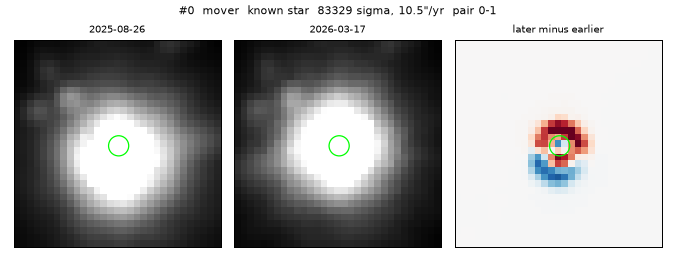
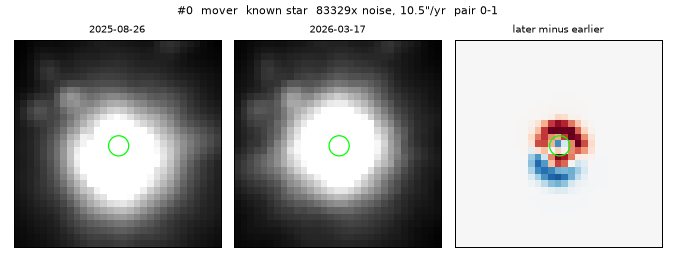
Search: validation write-up on all five fields (docs/search-validation.md)
Per target (clip on / off): recovery, rank, type, implied motion against the
catalogue, every cut count, candidates, unexplained and the rest of the field;
the interleaved-halves false-positive control (17 null pairs: 1.8 false
candidates per pair with clip, 0.3 unexplained; 7.1 and 6.0 without); the clip
comparison; every unexplained candidate inspected; thumbnails, including the
targets the search does not report. Plain statement: it finds bright fast
movers (Barnard's Star, Epsilon Indi B), not the faint WISE 0855, and not the
changes of saturated stars (RW Aur, R Draconis). Thumbnails without a score no
longer print 'nanx noise'.

Changed region(s): [[0.2489, 0.0, 0.7467, 0.0613]]

diff --git a/spherex/search.py b/spherex/search.py
@@ -805,8 +805,9 @@ def save_thumbnails(cands, epochs, out_dir, half_px=15):
             ax.set_title(title, fontsize=8)
             ax.set_xticks([]); ax.set_yticks([])
         pm = f", {c['pm_arcsec_yr']:.1f}\"/yr" if np.isfinite(c["pm_arcsec_yr"]) else ""
-        fig.suptitle(f"#{k}  {c['type']}  {c['label'] if 'label' in c.colnames else ''}  "
-                     f"{c['peak_to_noise']:.0f}x noise{pm}  pair {c['pair']}", fontsize=9)
+        score = f"  {c['peak_to_noise']:.0f}x noise" if np.isfinite(c["peak_to_noise"]) else ""
+        fig.suptitle(f"#{k}  {c['type']}  {c['label'] if 'label' in c.colnames else ''}"
+                     f"{score}{pm}  pair {c['pair']}", fontsize=9)
         fig.tight_layout()
         name = f"{k:03d}_{c['type']}_{(c['label'] if 'label' in c.colnames else 'unlabelled').replace(' ', '-')}.png"
         path = os.path.join(out_dir, name)

diff --git a/docs/search-validation.md b/docs/search-validation.md
@@ -1,183 +1,215 @@
-# Blind search: validation on real data
+# Blind search: validation on the five challenge fields
 
-How well `api.find_movers` / `paramost search` (method in [API.md](API.md#blind-search),
-code in `spherex/search.py`) works on SPHEREx data. Measured 2026-11-18 on the `search` branch.
+How well `api.find_movers` / `paramost search` (method in [API.md](API.md#blind-search), code in
+`spherex/search.py`) works on real SPHEREx data. Measured 2026-11-19 on the `search` branch with
+`tools/validate_search.py` (the five fields) and `tools/search_null_control.py` (the
+false-positive control); both rerun everything below from the downloaded images.
 
-**Short answer.** On the one field with local data it recovers the known mover, Barnard's Star,
-as the most significant candidate in every detector and setting, with an implied proper motion of
-9.3-10.6″/yr against the catalogue's 10.39″/yr. With the default sigma-clipped stacks almost
-nothing else survives (0-3 unexplained candidates per field), and every unexplained candidate is,
-on inspection, most likely an artefact. That is one field, one mover and no known asteroid: far
-too little to say the search finds new objects. Read the limits below before using it.
+## What it can and cannot do
 
-## What was run
+- **It finds bright, fast movers.** With clipping, Barnard's Star (10.4″/yr) and Epsilon Indi B
+  (4.7″/yr) are the top-ranked candidates in every pair, classified `mover`, with the implied motion
+  within 24% of the catalogue (Barnard's Star within 4%).
+- **It does not find faint movers.** WISE 0855 (8.1″/yr, but faint in SPHEREx) leaves a dipole at
+  the noise level: one lobe passes as a lone `single`, no motion is measured, and the label names
+  the neighbouring star. Without clipping it is not found at all.
+- **It does not see changes in saturated stars.** RW Aur really brightened by 30% between visits
+  and R Draconis faded by 22%, but both are saturated, and the cut that removes the rings and wings
+  of saturated stars removes their real change too. Neither is reported.
+- **With clipping (the default), false positives are few:** with nothing changing, 1.8 false
+  candidates per visit pair survive, 0.3 of them unexplained. Without clipping, 7.1 per pair (6.0
+  unexplained), mostly single-frame defects. **Keep `clip=True`.**
+- **No unexplained candidate in any field is a real object** on inspection.
 
-- **Data.** Only Barnard's Star has SPHEREx images on this machine (D2: 3 visits; D3, D5, D6: 2
-  visits; D1, D4: 1 visit, so no pair). WISE 0855, Epsilon Indi B, RW Aur and R Draconis are not
-  downloaded, and nothing was downloaded for this check. So the saturated-star ring cut was **not**
-  tested on R Draconis, and only one mover could be recovered.
-- **Blind.** The field is the 10′ grid the app builds around the target, but the search never uses
-  the target position: detection, cuts, classification and catalogue matching work on the whole
-  grid. The position is only used to find the cutout files (which were requested around it).
-- **Settings.** `fov=10`, 5 sigma, every detector with two or more visits, `clip` on and off;
-  for D2 (3 visits) also `pairs="all"` and `method="minus_mean"`. Gaia DR3, CatWISE2020 and SkyBoT
-  on. None of these catalogues is served by CDS, so the CDS outage did not affect this check.
-- **Catalogue values for Barnard's Star** (Gaia DR3 4472832130942575872): proper motion
-  10.39″/yr toward position angle 355.6° (−0.80″/yr in RA, +10.36″/yr in Dec).
+So: a bright fast mover in a SPHEREx field shows up first; anything else in the table is most
+likely an artefact or a star that looks different in the two visits. That is useful for confirming
+and measuring known high-proper-motion stars, and not (yet) for finding new objects.
 
-## Recovery of Barnard's Star
+## The fields
 
-| Field | Pair (dates) | Rank | Significance | Implied pm (″/yr) | PA (°) | Gaia match |
-|---|---|---|---|---|---|---|
-| D2, clip | 0-1 (2025-08-26 → 2026-03-17) | 1 | 83 329 | 10.46 | 348.3 | 0.84″ |
-| D2, clip | 1-2 (2026-03-17 → 2026-08-22) | 2 | 52 232 | 10.45 | 340.4 | 0.35″ |
-| D2, no clip | 0-1 | 1 | 46 608 | 10.38 | 350.5 | 0.81″ |
-| D2, no clip | 1-2 | 2 | 37 659 | 9.99 | 341.1 | 0.33″ |
-| D3, clip / no clip | 0-1 (2025-08-21 → 2026-08-20) | 1 | 138 128 / 122 527 | 9.33 / 9.33 | 350.3 / 349.9 | 0.56″ / 0.59″ |
-| D5, clip / no clip | 0-1 (2025-08-26 → 2026-08-22) | 1 | 230 430 / 191 802 | 10.54 / 10.50 | 348.2 / 348.6 | 0.74″ / 0.75″ |
-| D6, clip / no clip | 0-1 (2025-08-21 → 2026-08-20) | 1 | 106 536 / 89 547 | 10.36 / 10.36 | 351.8 / 351.6 | 0.71″ |
-| D2, clip, all pairs | 0-2 (one year) | 1 | 99 420 | 10.42 | 345.1 | 0.34″ |
-| D2, clip, minus mean | 0-mean / 2-mean | 1 / 2 | 98 717 / 76 497 | 10.58 / 9.99 | 346.2 / 343.5 | 1.55″ / 0.34″ |
-| D2, no clip, minus mean | 2-mean / 0-mean | 1 / 2 | 43 320 / 41 718 | 9.78 / 10.36 | 344.8 / 348.0 | 0.32″ / 1.29″ |
+| Target | Detector | Visits: frames (release) | Catalogue motion | Download (first view) |
+|---|---|---|---|---|
+| Barnard's Star | D2 | 2025-08-26: 18, 2026-03-17: 18, 2026-08-22: 25 (DR1, DR1, QR3) | 10.39″/yr, PA 355.6° | already local |
+| Epsilon Indi B | D5 | 2025-05-13: 31, 2025-10-12: 24, 2026-04-25: 7, 2026-09-30: 24 (DR1 ×3, QR3) | 4.71″/yr, PA 122.6° | 86 images, 4.8 min |
+| WISE 0855 | D6 | 2025-05-05: 3, 2025-11-16: 21, 2026-04-27: 21 (DR1) | 8.15″/yr, PA 274.8° | 45 images, 2.2 min |
+| RW Aur | D1 | 2025-09-03: 19, 2026-03-07: 19, 2026-09-06: 18 (DR1, DR1, QR3) | (variable) | 56 images, 1.9 min |
+| R Draconis | D3 | 2025-06-03: 23, 2026-01-01: 24, 2026-05-15: 44 (DR1, DR1, DR1 + QR3) | (variable) | 91 images, 3.2 min |
 
-In every pair the top candidate is Barnard's Star, classified `mover`, labelled `known star`, and
-its verdict says the catalogue motion agrees. The speed is right to −10%…+2%. The direction is
-systematically 4-15° west of the catalogue's: an extra westward shift of about 0.2 grid pixel per
-half year, larger than the 0.01-0.13 px that static saturated stars in the same field move. Most
-likely the centroid of the saturated, filled-in core is slightly biased; not investigated further.
+Downloads: 278 images in 721 s with the adaptive concurrency, 2.0-3.3 s per image. The README says
+a first view takes "about 1-3 minutes"; that held for two of the four fields, R Draconis took 3.2 min
+and Epsilon Indi B 4.8 min. Every field searched with `fov=10`, threshold 5, consecutive pairs, Gaia
+DR3 + CatWISE2020 + SkyBoT, and never told where its target is.
 
-Barnard's Star is saturated in every frame (a core of 290-390 grid pixels). Its motion comes from
-the flux-centroid shift of the whole star between the two stacks, not from the dipole lobes: at
-1.5-1.9 grid pixels per pair, the shift is less than one SPHEREx pixel, and the two lobes sit about
-one PSF apart whatever the motion.
+## Per target
 
-Two problems were found and fixed during this validation (both have tests):
-- `minus_mean` compared a saturated star against an empty picture, so Barnard's Star's core was cut
-  as "saturated star wings"; it now uses the mean of the other visits (dated at their mean date).
-- At the first visit's date an unrelated G = 20.9 star lies 1.65″ from Barnard's Star, and the
-  nearest-source rule matched the mover to it. Among sources within 3″ the match is now the one with
-  the agreeing motion (movers) or the brightest (everything else).
+`peak_to_noise` is a ranking score (residual peak / scatter of the blank parts of the difference),
+not a significance: see [API.md](API.md#blind-search).
 
-## Candidates per field and what each cut removed
+| Target | clip | Recovered? | Rank | Type | Implied motion (″/yr) | PA (°) | Distance from prediction |
+|---|---|---|---|---|---|---|---|
+| Barnard's Star | on | yes, both pairs | 1, 2 | mover | 10.46, 10.45 | 348, 340 | 0.8″, 0.4″ |
+| Barnard's Star | off | yes, both pairs | 1, 2 | mover | 10.38, 9.99 | 350, 341 | 0.8″, 0.4″ |
+| Epsilon Indi B | on | yes, all three pairs | 1, 2, 3 | mover | 4.70, 5.23, 5.53 | 151, 154, 99 | 0.9″, 0.9″, 2.0″ |
+| Epsilon Indi B | off | yes, all three pairs | 9, 10, 11 | mover | 4.30, 5.38, 5.78 | 152, 156, 102 | 0.9″, 0.9″, 2.0″ |
+| WISE 0855 | on | one lobe, pair 1-2 | 1 (of 1) | single | - | - | 3.1″ |
+| WISE 0855 | off | no | - | - | - | - | - |
+| RW Aur | on / off | no | - | - | - | - | - |
+| R Draconis | on / off | no | - | - | - | - | - |
 
-| Field | Visits (releases) | Residuals | Low coverage | Edge | Saturated star wings | Small change | Kept | Candidates | Known star | Known IR source | Known asteroid | Unexplained | Time (s) |
-|---|---|---|---|---|---|---|---|---|---|---|---|---|---|
-| D2, clip | 3 (DR1, DR1, QR3) | 208 | 0 | 24 | 20 | 151 | 13 | 9 | 6 | 0 | 0 | 3 | 3.2 |
-| D2, no clip | 3 | 155 | 0 | 16 | 20 | 106 | 13 | 9 | 6 | 0 | 0 | 3 | 3.4 |
-| D3, clip | 2 (DR1, QR3) | 113 | 0 | 12 | 10 | 88 | 3 | 2 | 2 | 0 | 0 | 0 | 2.2 |
-| D3, no clip | 2 | 100 | 0 | 16 | 10 | 71 | 3 | 2 | 2 | 0 | 0 | 0 | 2.0 |
-| D5, clip | 2 (DR1, QR3) | 31 | 0 | 3 | 0 | 26 | 2 | 1 | 1 | 0 | 0 | 0 | 1.9 |
-| D5, no clip | 2 | 50 | 0 | 8 | 0 | 26 | 16 | 15 | 6 | 1 | 0 | 8 | 1.9 |
-| D6, clip | 2 (DR1, QR3) | 13 | 0 | 1 | 0 | 10 | 2 | 1 | 1 | 0 | 0 | 0 | 1.7 |
-| D6, no clip | 2 | 55 | 0 | 7 | 1 | 6 | 41 | 39 | 8 | 3 | 0 | 28 | 2.0 |
-| D2, clip, all pairs | 3 | 310 | 0 | 36 | 28 | 230 | 16 | 10 | 7 | 0 | 0 | 3 | 3.3 |
-| D2, clip, minus mean | 3 | 305 | 0 | 36 | 35 | 225 | 9 | 7 | 4 | 0 | 0 | 3 | 3.4 |
-| D2, no clip, all pairs | 3 | 205 | 0 | 19 | 30 | 139 | 17 | 12 | 7 | 0 | 0 | 5 | 3.0 |
-| D2, no clip, minus mean | 3 | 196 | 0 | 17 | 33 | 135 | 11 | 9 | 4 | 0 | 0 | 5 | 3.3 |
+![Barnard's Star](img/search/barnard_D2_mover.png)
+![Epsilon Indi B in its three pairs](img/search/epsindib_D5_movers.png)
 
-"Kept" counts residuals; a mover joins two (or more) of them into one candidate.
+What each cut removed, and what survived:
 
-- **Low coverage removed nothing**: with 10′ fields served from the standard 0.25° cutouts every
-  pixel has 15-25 frames in every visit. It matters for smaller cutouts and the few-frames visits
-  (none here).
-- **Small change does most of the work.** Most residuals are 5-25% of the star under them: a star
-  that only looks different in the two visits (the focal plane is turned differently on each visit,
-  and DR1 and QR3 are calibrated a few percent differently). The lobes of Barnard's Star are 57-93%.
-  The 30% threshold was chosen on this field; it also removes real changes smaller than 30%.
-- **Saturated star wings** removed 10-20 residuals per field around Barnard's Star and the other
-  saturated stars, while keeping Barnard's Star's own core residuals (its centroid moved 1.5-3.5 px;
-  static saturated stars 0.01-0.13 px).
-- Every pair here except D2's 0-1 crosses the DR1 → QR3 boundary and is flagged `release_boundary`.
+| Target | clip | Residuals | Low coverage | Edge | Saturated-star wings | Small change | Rescued lobes | Kept | Candidates | Unexplained | Rest of field (> 2′ from target) | Time (s) |
+|---|---|---|---|---|---|---|---|---|---|---|---|---|
+| Barnard's Star | on | 208 | 0 | 24 | 20 | 149 | 2 | 15 | 9 | 3 | 7 (3 unexplained) | 3.3 |
+| Barnard's Star | off | 155 | 0 | 16 | 20 | 105 | 1 | 14 | 10 | 3 | 8 (3) | 3.4 |
+| Epsilon Indi B | on | 38 | 0 | 10 | 0 | 15 | 2 | 13 | 10 | 7 | 6 (6) | 4.2 |
+| Epsilon Indi B | off | 60 | 0 | 8 | 0 | 8 | 3 | 44 | 40 | 33 | 30 (26) | 4.2 |
+| WISE 0855 | on | 13 | 7 | 1 | 0 | 4 | 0 | 1 | 1 | 0 | 0 | 2.1 |
+| WISE 0855 | off | 67 | 20 | 6 | 0 | 4 | 0 | 37 | 35 | 30 | 29 (25) | 2.2 |
+| RW Aur | on | 264 | 0 | 32 | 24 | 199 | 0 | 9 | 9 | 2 | 7 (1) | 3.0 |
+| RW Aur | off | 188 | 0 | 23 | 24 | 136 | 0 | 5 | 5 | 1 | 5 (1) | 2.8 |
+| R Draconis | on | 19 | 0 | 4 | 8 | 4 | 2 | 3 | 1 | 0 | 1 (0) | 3.9 |
+| R Draconis | off | 24 | 0 | 4 | 9 | 7 | 0 | 4 | 4 | 4 | 4 (4) | 4.0 |
+
+Within 6′ of each field's centre Gaia lists no star faster than 0.2″/yr except the target itself (WISE
+0855 is too faint for Gaia), so no known second mover is hiding among the rest-of-field candidates.
+Times are with the stacks in memory or saved; rebuilding them from the cached images takes 2.7-8.2 s
+per field with a cold frame cache. SkyBoT adds seconds to a minute per visit the first time.
+
+### Barnard's Star
+
+The easy case: bright and fast, 1.5-1.9 grid pixels per pair. It is saturated in every frame; its
+motion comes from the shift of the whole star's flux centroid between the two stacks. The direction is
+systematically 5-16° west of the catalogue's (0.2 px per half year; static saturated
+stars in the field move 0.01-0.13 px). The 7 other candidates: a tight group of blended faint stars
+that looks different in each visit (two `mover`s, 2-4″/yr, at a star Gaia says does not move), a
+residual at the edge of a bright neighbour, and stars whose cores look different in the two visits
+(the same effect the false-positive control shows).
+![](img/search/barnard_D2_clip_unexplained.png)
+
+### Epsilon Indi B: the DR1/QR3 boundary
+
+Found in all three pairs once its uneven lobes are judged together (see "What changed" below); motion
+4.70-5.53″/yr against 4.68 in Gaia. The direction is poor (99-154° against 122.6°): the shift per pair
+is only 0.65-0.84 grid pixels. **The release boundary does not create false variables**: the DR1 → QR3
+pair (2-3) has 2 candidates and no variables (the target and one unexplained), the two DR1 pairs 8;
+a few-percent calibration step is far below the 30% small-change cut. Of its 7 unexplained candidates
+with clip, 6 (268-291″ from the target, near the field edge) are diffuse patches in a smooth brightness
+gradient, not point sources: most likely scattered light from a bright star outside the field that
+changed between visits (not checked further); the seventh, 41″ from the target, is a featureless spot
+next to a bright star's residual.
+![](img/search/epsindib_D5_clip_unexplained.png)
+
+### WISE 0855: faint, with the G = 16.3 neighbour
+
+The target is only 13-21 times the noise in each stack. Its first visit has 3 frames, so pair 0-1 is
+cut as low coverage. In pair 1-2 the dipole is at the noise level (smoothed: old lobe 5.4x, new lobe
+7.6x the noise); only the new lobe passes, as a lone `single` at peak_to_noise 12.5, 3.1″ from the
+prediction, so no motion is measured. **The label is wrong about what it is**: the G = 16.3 neighbour
+lies within 3″, so it says "known star"; the CatWISE source 1.7″ away is most likely WISE 0855 itself
+(not checked). The neighbour does not break the pairing; the missing lobe is simply too faint. The
+search does not find WISE 0855 as a mover. Without clipping it is not found at all (the plain-average
+stacks are noisier), and 30 single-frame defects take its place.
+![WISE 0855 at its position, pair 1-2 (the search reports only the red lobe)](img/search/wise0855_D6_at_target.png)
+
+### RW Aur: real variability, not reported
+
+RW Aur brightened from 663 to 859 to 1103 (sum over 9 x 9 pixels, stack units: +30% per pair) and
+leaves residuals of 3775 and 3552 x noise. But it is saturated in D1 (10-15 saturated pixels in its
+core in every visit), its core does not move, and so the saturated-star cut removes all of its
+residuals with the wings. **It does not come out as a variable.** The 9 candidates are field stars:
+residuals of stars whose cores look different (30-54%, the null control's range), 2 unexplained.
+![RW Aur at its position, pair 0-1: the residual the saturated-star cut removes](img/search/rwaur_D1_at_target.png)
+![](img/search/rwaur_D1_clip_unexplained.png)
+
+### R Draconis: saturated rings
+
+The cut holds. Its saturated core covers 700-930 grid pixels (wings cut out to 130-140″); of 19
+residuals in the field 8 are cut as saturated-star wings, all within 80 px of it, and 1 candidate
+survives (a known star). The table is not flooded. R Draconis itself faded 22% between the last two visits and is not
+reported, for the same reason as RW Aur. Without clipping 4 `variable`s appear at two places: large
+round discs in the middle visit's plain-average stack only, removed by clipping. They look like
+optical ghosts of R Draconis in a few frames (SPHEREx has GHOST flags, which the cleaning does not
+mask); I could not check the flags here.
+![](img/search/rdraconis_D3_at_target.png)
+![](img/search/rdra_D3_noclip_unexplained.png)
+
+## False-positive control
+
+`tools/search_null_control.py`: each visit's frames are split into two interleaved halves, each
+stacked on its own (on one grid), and the two halves differenced and searched exactly like a pair.
+Nothing moves or changes in the few days between them, so **every surviving candidate is a false
+positive**. The halves have half the frames of a visit, so this is pessimistic.
+
+| Field | Null pairs | clip on: candidates (unexplained) | clip off: candidates (unexplained) |
+|---|---|---|---|
+| Barnard's Star D2 | 3 | 16 (4) | 11 (4) |
+| Epsilon Indi B D5 | 5 | 2 (1) | 49 (46) |
+| WISE 0855 D6 | 3 | 0 (0) | 49 (42) |
+| RW Aur D1 | 3 | 13 (0) | 7 (5) |
+| R Draconis D3 | 3 | 0 (0) | 5 (5) |
+| **All** | **17** | **31 (5): 1.8 per pair (0.3)** | **121 (102): 7.1 per pair (6.0)** |
+
+With clipping the false candidates are stars whose cores look different between two stacks of the
+same visit, with nothing changing (change 0.30-1.12, 81% of them 0.30-0.50): SPHEREx's 6″ pixels undersample the star, so a star's peak
+depends on how the frames fell on it. That is the same size as the "variables" on known stars in the
+real fields, which are therefore most likely the same effect. All null candidates are `single`s: the
+halves are days apart, under the 0.1 yr below which no mover is formed, so this control cannot measure
+false movers. In the real fields false movers appeared from blended stars (Barnard's Star field) and,
+without clipping, from two defects paired by chance (WISE 0855).
 
 ## clip on or off
 
-Both settings recover Barnard's Star at rank 1 with the same motion (to 0.4″/yr). With `clip=False`
-the D5 and D6 fields keep 8 and 28 unexplained candidates instead of 0: nearly all are single-frame
-defects (below), which the sigma-clipped stack removes. The advantage of `clip=False` - keeping
-sources that are in only part of a visit, such as asteroids and flares - could **not** be shown: SkyBoT
-lists 0-2 known asteroids in the field per visit, and none lies on a candidate. **Use `clip=True`
-(the default)**; try `clip=False` only for a field with a known fast mover, and expect defects.
+Clipping wins everywhere: the same recoveries (Barnard's Star, Epsilon Indi B), WISE 0855 only with
+it, and 1.8 instead of 7.1 false candidates per pair. Without it the tables fill with single-frame
+events (sharp one-pixel squares, and in Epsilon Indi B large irregular blobs that look like
+"snowball" cosmic-ray events, also not masked by the cleaning; flags not checked):
+![](img/search/epsindib_D5_noclip_unexplained.png)
+![](img/search/wise0855_D6_noclip_unexplained.png)
+SkyBoT lists 0-2 known asteroids per visit in these fields and none lies on a candidate, so the one
+case where `clip=False` should help - a fast asteroid - could not be tested.
 
 ## Every unexplained candidate, inspected
 
-Thumbnails: earlier visit, later visit, later minus earlier (red = brighter later); the green circle
-is the candidate; `#` numbers are the ones in the thumbnail titles. "Single-frame defect" = a sharp square one SPHEREx pixel wide (2 x 2 grid
-pixels) that is bright or dark in one visit's plain-average stack only and absent from its clipped
-stack: an unflagged hot pixel or cosmic ray in one frame.
+| Field | clip | Unexplained | What they are |
+|---|---|---|---|
+| Barnard's Star | on | 3 | a blended group of faint stars (2, one per pair) and the edge of a bright neighbour's residual |
+| Barnard's Star | off | 3 | the same blend (2) and a single-frame defect |
+| Epsilon Indi B | on | 7 | diffuse patches in a smooth background gradient near the field edge (6), a featureless spot next to a bright star's residual (1) |
+| Epsilon Indi B | off | 33 | single-frame events (large bright or dark blobs and one-pixel squares in one stack only), and the same diffuse patches |
+| WISE 0855 | off | 30 | single-frame defects; its one "mover" is two defects paired by chance |
+| RW Aur | on / off | 2 / 1 | a faint core residual on a field star, a blob beside a star next to a defect / a faint residual (7x) beside a star |
+| R Draconis | off | 4 | two places with large discs in one visit only (likely ghosts of R Draconis; flags not checked) |
 
-**D2, clip (3; the same 3 with all pairs).** ![](img/search/D2_clip_unexplained.png)
-- #6 and #8, "mover", 31 and 23 σ, 2.0 and 4.2″/yr: the same place in both pairs, a tight group of
-  faint blended stars (nearest Gaia G = 20.6 at 3-5″). The residual pattern flips between the pairs and
-  the two implied motions disagree in size and direction: the group looks different in each visit.
-  **Artefact** (point-spread-function residual of a blend).
-- #7, "single", 30 σ: a faint bump at the edge of a bright neighbour's residual (that residual was cut
-  as small change). **Artefact.**
+None looks like a real moving or changing object.
 
-**D2, no clip (3).** The same blend (#7, #8) and #4, 198 σ:
-![](img/search/D2_noclip_single_frame_defect.png) a **single-frame defect** in the first visit.
+## What changed in the search during this validation
 
-**D2, minus mean (3 with clip, 5 without).** ![](img/search/D2_noclip_minus_mean_unexplained.png)
-The blend and the bright neighbour again, and (no clip) the same single-frame defect of the first
-visit three times: positive in 0-mean, negative in 1-mean and 2-mean, whose mean contains that visit.
-It is therefore classified `variable`, seen in 2 of 2 other images. **Artefact**; see "seen_in" below.
+Three logic problems were found and fixed, each with a test:
 
-**D5, no clip (8).** ![](img/search/D5_noclip_unexplained.png)
-Five (#2, #3, #4, #7, #11) are **single-frame defects**. Three (#9, #10, #13; 18-26 σ) are soft
-residuals next to stars, at a level where the noise of a plain-average stack is not Gaussian:
-**unclear, most likely noise or star residuals.**
+- **A saturated core cannot move between pictures days apart.** In the null control Barnard's Star's
+  filled-in core "moved" more than 0.5 px between two halves of one visit, and became the top false
+  positive (peak_to_noise 44 000). Pictures less than 0.1 yr apart now treat saturated cores as static.
+- **A dipole is judged as a whole.** Epsilon Indi B's lobes are uneven (fluxes 61 and 21); the weaker
+  one alone fell under the small-change cut, so in two of its three pairs only a lone single was left.
+  Such a lobe now comes back when a kept lobe of the other sign is within dipole range, and is
+  dropped again if it ends up in no dipole. Cost, measured: two more false movers in the Barnard's
+  Star field, four more candidates in its null control.
+- **`significance` was renamed `peak_to_noise`**, with its definition in the table, the CLI and the
+  docs: it is a ranking score, and stars that do not change reach 44 (median) to 774 in it.
 
-**D6, no clip (28).**
-![](img/search/D6_noclip_unexplained_0.png)
-![](img/search/D6_noclip_unexplained_1.png)
-![](img/search/D6_noclip_unexplained_2.png)
-![](img/search/D6_noclip_unexplained_3.png)
-22 are **single-frame defects**, most of them bright squares in the 2026-08-20 (QR3) visit, the
-strongest at 1883 σ. #13, "mover", 2.9″/yr, is **two defects** (one dark, one bright) that happened
-to be paired. Five (#22, #30, #35, #36, #38; 14-32 σ) are faint and soft: **unclear, most likely noise
-or star residuals.**
-
-**D3, D5 and D6 with clip: none.**
-
-No unexplained candidate looks like a real moving or changing object.
-
-## The known-star candidates
-
-Apart from Barnard's Star the `known star` candidates with clip are
-![](img/search/D2_clip_variables.png)
-- D2 #2/#3, `variable`, 433-458 σ, on a G = 13.7 star: a sharp one-to-two-pixel residual in the star's
-  core that flips sign between the pairs: the core sampled differently, **not** a brightness change.
-- D2 #4/#5, `variable`, 53-76 σ, on a G = 15.6 star that is about 30% brighter in the middle visit
-  than in the other two (residual with the shape of the star): possibly a real change, possibly
-  something about the middle visit (see below). Undecided.
-- D3, a `single` on a G = 15.9 star (change 0.46): undecided.
-
-## Limits, in order of importance
-
-1. **One field, one mover, no asteroid.** Barnard's Star is the easiest mover there is (the highest
-   proper motion of any known star, and bright). Nothing here shows that the search finds a
-   faint or slow mover, a brown dwarf like WISE 0855, a variable like R Draconis or RW Aur, or an
-   asteroid. The ring cut was designed for R Draconis but never run on it.
-2. **"variable" is not independent confirmation.** With three visits, a change in the middle visit
-   (a flare, a defect, a calibration difference) leaves residuals of opposite sign at one place in
-   both consecutive pairs, exactly like a variable. With `pairs="all"` and `minus_mean` the images
-   share visits, so one defect is counted several times.
-3. **Catalogue labels can be chance.** In this crowded field a random position has a 16% chance of a
-   Gaia source within 3″ and 14% of a CatWISE source (`chance_match`; at 6″ it would be 50%). A
-   `known star` label says only that a star is there.
-4. **The thresholds were set on this field** (30% small-change cut, 0.5 px moving-core threshold,
-   2.5 r + 4 px ring radius). They are untested elsewhere.
-5. The motion direction of Barnard's Star is 4-15° off (above).
+None of the thresholds (30% small change, 0.5 px moving core, ring radius, 5x threshold) was changed
+to make a target appear. They were set on the Barnard's Star field and are untested beyond these five.
 
 ## Repeatability and existing outputs
 
 - **Deterministic:** the same field gives a byte-identical candidate table in separate runs.
-- **Frame cache and workers:** D2 (clip) and D6 (no clip), with every stack rebuilt (saved results
-  off): byte-identical tables with the frame cache cold (`SPHEREX_FRAME_CACHE=0`) and warm, and with
-  1 and 8 workers (`SPHEREX_WORKERS`).
-- **Existing outputs unchanged:** stacks and coverage maps (D2 at 4′ with clip, D2 at 10′ without,
-  D5+D6 at 6′), a pair difference, the overlay notes and the light-curve table of Barnard's Star are
-  byte-identical between the `before-search` tag and this branch (the search only adds code).
-- **Time per field:** 1.7-3.4 s with the stacks in memory or saved; 2.3-6.2 s rebuilding them from
-  cached images (cold frame cache, 1-8 workers). SkyBoT, asked twice per visit, added 15.5 s for
-  the three D2 visits; a single slow SkyBoT call took 54 s on 2026-11-17 (astroquery then caches
-  its answers); `--no-asteroids` skips it.
+- **Frame cache and workers:** Barnard's Star D2 (clip), Epsilon Indi B D5 (clip) and WISE 0855 D6 (no
+  clip), every stack rebuilt (saved results off): byte-identical tables with the frame cache cold and
+  warm and with 1 and 8 workers. 2.2-8.2 s per field including the stacking.
+- **Existing outputs unchanged:** stacks and coverage maps (Barnard's Star D2 at 4′ with clip, D2 at
+  10′ without, D5+D6 at 6′), a pair difference, overlay notes and the light-curve table are
+  byte-identical to the `before-search` tag; `spherex/` gained only `search.py` and additions to `api.py`.

diff --git a/CHANGELOG.md b/CHANGELOG.md
@@ -6,8 +6,10 @@
   `paramost search "<target>" --fov 10 --detector D2` list residuals between visits that survive
   artefact cuts (coverage, edges, saturated-star wings, small changes), classified as mover /
   variable / single and checked against Gaia DR3, CatWISE2020 and SkyBoT. Candidates are not
-  detections. On the Barnard's Star field it finds Barnard's Star first in every detector, at
-  9.3-10.6"/yr (catalogue 10.39); see docs/search-validation.md for what it does not show.
+  detections. Validated blind on the five challenge fields (docs/search-validation.md): it finds the
+  bright fast movers (Barnard's Star 10.4"/yr, Epsilon Indi B 4.7-5.5"/yr, first in every pair), not
+  the faint WISE 0855 and not the changes of the saturated RW Aur and R Draconis; with nothing
+  changing, 1.8 false candidates per visit pair survive (0.3 unexplained).
 - **Sky viewer works again during the CDS outage:** since about 2026-11-09 the CDS survey server
   (alasky) is down, which left the Aladin panel grey with no message. The panel now loads WISE,
   2MASS and DSS colour images from ESA, falls back to IRSA when no tile arrives within 10 s, and
